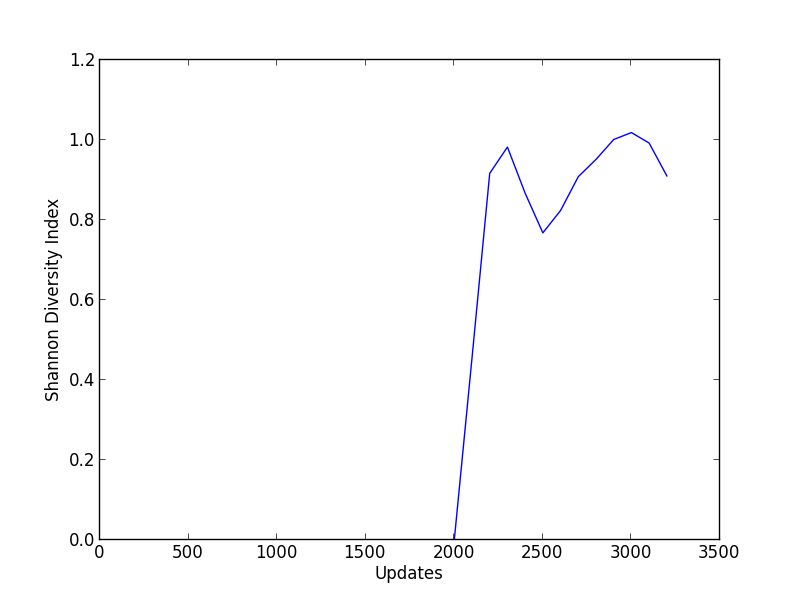
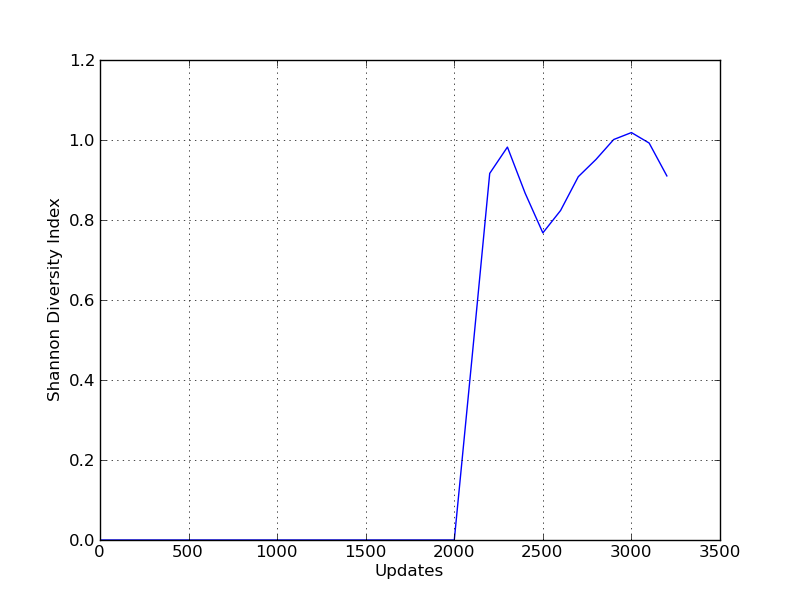
double-dash param flags, grid option, updated logx/logy to use set_scale functions

diff --git a/GenericScripts/GraphColumns/graph_columns.py b/GenericScripts/GraphColumns/graph_columns.py
@@ -12,52 +12,48 @@ import argparse
 parser = argparse.ArgumentParser(description="Plots one or more columns from a typical Avida file")
 
 #file to parse
-parser.add_argument('-data_file', type=argparse.FileType('r'), help="the filename containing space delimited values to be plotted", required=True)
-parser.add_argument('-x', type=int, help="Column to be used as the X values for the plot", required=True, nargs=1)
+parser.add_argument('--data_file', type=argparse.FileType('r'), help="the filename containing space delimited values to be plotted", required=True)
+parser.add_argument('--x_column', type=int, help="Column to be used as the X values for the plot", required=True, nargs=1)
 #label for the x-axis
-parser.add_argument('-xlabel', type=str, help="x-axis label, if you need spaces you can quote the string", required=False, default="x-axis", nargs=1)
-parser.add_argument('-ylabel', type=str, help="y-axis label, if you need spaces you can quote the string", required=False, default="y-axis", nargs=1)
+parser.add_argument('--x_label', type=str, help="x-axis label, if you need spaces you can quote the string", required=False, default="x-axis", nargs=1)
+parser.add_argument('--y_label', type=str, help="y-axis label, if you need spaces you can quote the string", required=False, default="y-axis", nargs=1)
 
 #which columns to plot
-parser.add_argument('-columns', type=int, help="Column to be used as the Y values for the plot", required=True, nargs="+")
+parser.add_argument('--columns', type=int, help="Column to be used as the Y values for the plot", required=True, nargs="+")
 #what to label those columns
-parser.add_argument('-column_labels', type=str, help="Space delimited labels to be used for individual columns, if spaces are desired within labels the labels can be quoted", required=False, nargs="+", default=None)
+parser.add_argument('--column_labels', type=str, help="Space delimited labels to be used for individual columns, if spaces are desired within labels the labels can be quoted", required=False, nargs="+", default=None)
 
 #optional log axes 
-parser.add_argument('-logx', help="Graph the x-axis on a log scale", required=False, default=False, action='store_true')
-parser.add_argument('-logy', help="Graph the y-axis on a log scale", required=False, default=False, action='store_true')
+parser.add_argument('--log_x', help="Graph the x-axis on a log scale", required=False, default=False, action='store_true')
+parser.add_argument('--log_y', help="Graph the y-axis on a log scale", required=False, default=False, action='store_true')
+parser.add_argument('--grid', help="Use an axes grid", required=False, default=False, action='store_true')
 
 
 args = parser.parse_args()
 
 
 #load in the data, using the x-column and the columns to plot using numpy's handy loadtxt function
-data_matrix = loadtxt(args.data_file, usecols=args.x + args.columns, unpack=True)
+data_matrix = loadtxt(args.data_file, usecols=args.x_column + args.columns, unpack=True)
 
 #plot the data we need, where x=the first row of the matrix, and the rest of the lines are
 #the the rest of columns of the matrix.
-plot_function = pyplot.plot
+pyplot.plot(data_matrix[0], transpose(data_matrix[1:]))
 
-
-#ugly code to check which axes are transformed, and handles them appropriately
-if args.logx and args.logy:
-    plot_function = pyplot.loglog
-elif args.logx or args.logy:
-    if args.logx:
-        plot_function = pyplot.semilogx
-    else:
-        plot_function = pyplot.semilogy
-
-#plot using the appropriate function
-plot_function(data_matrix[0], transpose(data_matrix[1:]))
-
+#handle the toggles
+if args.log_y:
+    pyplot.gca().set_yscale("log")
+if args.log_x:
+    pyplot.gca().set_xscale("log")
+if args.grid:
+    pyplot.grid()
+    
 #check if we need to label them, and if we do make sure we have the right number of labels
 if args.column_labels:
     assert len(args.columns) == len(args.column_labels), 'Number of Columns and Column Labels do not match'
     pyplot.legend(args.column_labels)
 
 #set labels
-pyplot.xlabel(args.xlabel[0])
-pyplot.ylabel(args.ylabel[0])
+pyplot.xlabel(args.x_label[0])
+pyplot.ylabel(args.y_label[0])
 
 pyplot.show()
